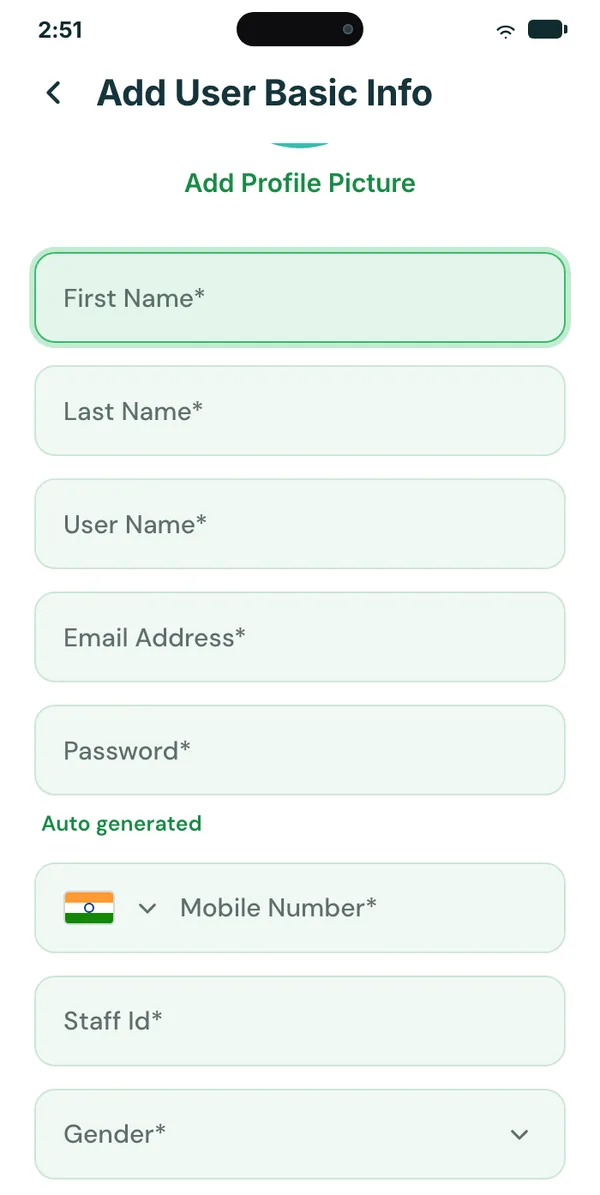
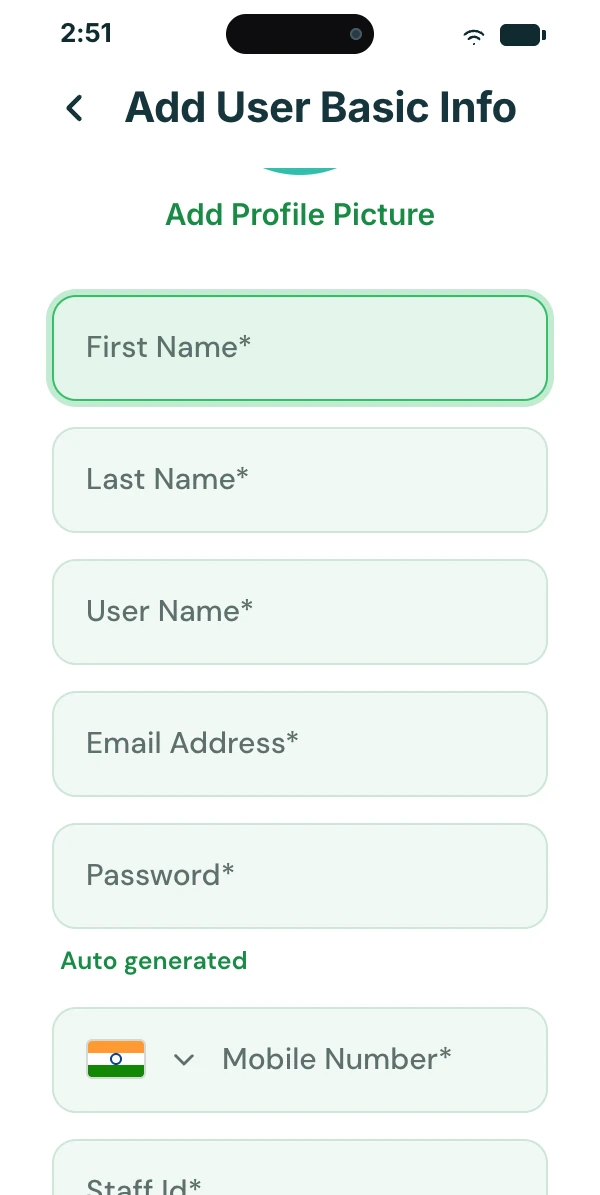
User Management: the Add User form re-rendered with wider margins and made scrollable under a fixed top bar, opening at each highlighted field

diff --git a/antz-onboard/app.js b/antz-onboard/app.js
@@ -358,6 +358,12 @@
     const z = shot.zoom || shot.device === 'web' ? ' zoomable' : '';
     if (shot.device === 'web') return `<div class="device device-web${z}"><div class="screen"><div class="bar"><i></i><i></i><i></i></div>${img}${k}</div>${l}</div>`;
     if (shot.device === 'tablet') return `<div class="device device-tablet${z}"><div class="screen">${img}${k}</div>${l}</div>`;
+    /* A scrolling screen (shot.scroll): the app's top bar stays put while the rest scrolls beneath it, as in the app.
+       data-full is the whole screen in one image, for the lens */
+    if (shot.scroll) {
+      const sc = shot.scroll;
+      return `<div class="device device-phone${z}" data-full="${esc(sc.full)}"><div class="screen screen-scroll"><img class="screen-head" src="${esc(sc.head)}" alt=""><div class="screen-body" tabindex="0" data-at="${sc.at}" aria-label="${esc(shot.alt)}"><img src="${esc(sc.body)}" alt="${esc(shot.alt)}"></div><span class="screen-cue" aria-hidden="true">${esc(t('screen.scroll'))}</span>${k}</div>${l}</div>`;
+    }
     /* Every phone screen gets the same green frame, drawn in CSS (the frames once baked into some captures are cropped off) */
     return `<div class="device device-phone${z}"><div class="screen">${img}${k}</div>${l}</div>`;
   };
@@ -538,7 +544,8 @@
       id: `guide-${id}-${key}`, track, title, web: /-web$/.test(id), flow,
       features: shots.map((s) => ({ title: s.title, desc: s.desc, icon: s.icon || ic, shot: srcOf(s) })),
       /* A screen is a phone unless it says otherwise (device: 'tablet' or 'web' for web modules) */
-      shots: shots.map((s) => ({ src: srcOf(s), alt: s.title, device: s.device || 'phone' }))
+      shots: shots.map((s) => ({ src: srcOf(s), alt: s.title, device: s.device || 'phone',
+        scroll: s.scroll && { head: srcOf({ src: s.scroll.head }), body: srcOf({ src: s.scroll.body }), full: srcOf({ src: s.scroll.full }), at: s.scroll.at } }))
     }) - 1;
 
     /* At a glance: the module pages' feature cards, each opening its screen */
@@ -1850,6 +1857,25 @@
   const CHEV_R = '<svg width="24" height="24" viewBox="0 -960 960 960" fill="currentColor"><path d="M517.85-480 354.92-642.92q-8.3-8.31-8.5-20.89-.19-12.57 8.5-21.27 8.7-8.69 21.08-8.69 12.38 0 21.08 8.69l179.77 179.77q5.61 5.62 7.92 11.85 2.31 6.23 2.31 13.46t-2.31 13.46q-2.31 6.23-7.92 11.85L397.08-274.92q-8.31 8.3-20.89 8.5-12.57.19-21.27-8.5-8.69-8.7-8.69-21.08 0-12.38 8.69-21.08L517.85-480Z"/></svg>';
   /* The LSET Foundation banner's leaf flourish (its components/icons/Leaves), under the banner text */
   const LEAVES_SVG = '<svg class="hero-leaf" width="114" height="60" viewBox="0 0 114 60" fill="none" aria-hidden="true" focusable="false"><path d="M2.87042 41.151C9.84427 42.2953 16.9777 42.0151 23.8403 40.3272C21.2324 39.0356 18.7205 37.5585 16.3241 35.9073C15.5719 35.3815 14.8724 32.6546 15.63 33.1841C19.0249 35.6013 22.6176 37.7278 26.3701 39.5409C28.3959 38.9382 31.2637 38.1164 33.3629 37.3151C34.8384 36.7518 36.2972 36.1518 37.7394 35.5152C39.7426 30.0413 46.0782 13.7805 48.733 19.3843C50.8472 23.8472 45.0164 30.2708 40.8713 34.0752C43.7887 32.6746 46.6426 31.1434 49.4414 29.5135L49.4269 29.5086L49.4898 29.4851C49.7488 29.3342 50.0073 29.1826 50.2654 29.0302C52.1283 23.9011 58.6661 6.86762 61.374 12.5837C63.3668 16.7903 58.3008 22.7393 54.2411 26.5946C57.0266 24.8318 59.7607 22.9874 62.4515 21.0943C63.0903 20.6449 63.727 20.1926 64.3617 19.7374C64.5324 15.8793 65.3768 3.48095 69.1102 6.60833C72.155 9.15894 68.69 15.0031 66.2686 18.359C68.4118 16.7977 70.5362 15.2106 72.6525 13.6127C73.6032 12.895 74.4153 12.0103 75.0492 11.0019C78.3819 5.69948 85.7422 -4.73149 88.0801 2.43099C90.306 9.25017 81.5286 12.1511 76.569 13.227C75.5994 13.4393 74.6877 13.86 73.8969 14.4599C71.5872 16.2052 69.2672 17.9387 66.9259 19.642C71.0431 18.2774 77.8777 16.6402 80.1336 19.8468C82.9239 23.813 69.2448 21.7951 64.9412 21.075C61.6655 23.4188 58.3402 25.691 54.9373 27.8442C60.1099 26.5855 67.2794 25.7311 68.836 30.0874C70.8894 35.8341 56.4643 31.7461 51.2545 30.1055C51.0959 30.1998 50.9386 30.2964 50.7795 30.3902C47.8626 32.1102 44.8733 33.7266 41.8171 35.2033C47.014 33.8879 54.5605 32.8524 56.1623 37.3356C58.3436 43.4403 41.9297 38.4469 37.721 37.0786C34.896 38.2982 31.1569 39.5991 28.228 40.5311C34.6511 43.3832 41.4349 45.3413 48.3899 46.3506C49.954 46.5701 51.5212 46.7493 53.0915 46.8884C57.4892 43.0626 70.8905 31.884 70.5086 38.073C70.2044 43.0021 61.9963 45.8107 56.5293 47.14C59.7603 47.3227 62.9989 47.3602 66.2368 47.2848L66.2265 47.2734L66.2929 47.2832C66.5925 47.2762 66.8922 47.2683 67.1918 47.2595C71.3001 43.668 85.2515 31.9104 84.862 38.2235C84.5754 42.8694 77.2661 45.6318 71.8493 47.0469C75.1398 46.8487 78.4246 46.5541 81.6951 46.196C82.4715 46.111 83.2475 46.0225 84.0231 45.9304C86.036 42.6347 92.7633 32.186 94.522 36.7276C95.9563 40.4315 90.0996 43.8754 86.3586 45.6445C88.9893 45.3124 91.6168 44.9548 94.2409 44.5716C95.42 44.4024 96.5584 44.02 97.6005 43.4431C103.08 40.4097 114.562 34.8308 113.15 42.2317C111.806 49.2778 102.719 47.5788 97.8565 46.1255C96.905 45.8432 95.9035 45.7711 94.9214 45.9145C92.0559 46.3272 89.187 46.7175 86.3145 47.0854C90.5788 47.8789 97.3542 49.7463 97.7807 53.6437C98.3084 58.4642 87.3052 50.0907 83.8845 47.3816C79.8841 47.8519 75.8751 48.2355 71.8553 48.4774C76.9926 49.8735 83.6832 52.588 82.9423 57.1543C81.9648 63.178 71.308 52.6316 67.5385 48.6788C67.354 48.6848 67.1697 48.6934 66.9851 48.6987C63.6002 48.796 60.2019 48.7677 56.8126 48.5847C61.9985 49.9428 69.1066 52.6808 68.344 57.3801C67.3056 63.779 55.3447 51.4793 52.3201 48.2484C46.0281 47.6768 39.8193 46.4069 33.8081 44.4623C31.0847 43.5563 28.4158 42.4941 25.8146 41.2809C23.7922 41.8341 21.7493 42.3166 19.6824 42.7041C13.2712 44.0086 6.70964 44.4139 0.186651 43.9084C-0.725917 43.8113 1.95691 41.0095 2.87042 41.151Z" fill="currentColor"/></svg>';
+  /* A scrolling screen opens scrolled to its feature (data-at, in image pixels); the cue fades once the reader scrolls */
+  function bindScrollScreen(root) {
+    root.querySelectorAll('.screen-body').forEach((body) => {
+      const img = body.querySelector('img');
+      const screen = body.parentElement, cue = screen.querySelector('.screen-cue');
+      let placed = false;
+      const atEnd = () => body.scrollTop + body.clientHeight >= body.scrollHeight - 4;
+      const place = () => {
+        body.scrollTop = (+body.dataset.at || 0) * (img.clientWidth / (img.naturalWidth || 1));
+        screen.classList.toggle('at-end', atEnd());
+        requestAnimationFrame(() => { placed = true; });
+      };
+      if (img.complete && img.naturalWidth) place(); else img.addEventListener('load', place, { once: true });
+      body.addEventListener('scroll', () => {
+        screen.classList.toggle('at-end', atEnd());
+        if (placed && cue) cue.classList.add('gone');
+      }, { passive: true });
+    });
+  }
   let closeFeatureWindow = null;
   /* chain: { sets, at } on guide pages, where each card is its own set: stepping past a set's last (or first)
      screen carries on into the next (or previous) card's screens, in the same window */
@@ -1919,6 +1945,7 @@
       /* The wash starts a little below the text, however long this feature's description is */
       setAnimal(w.querySelector('.fwin-info'), animals[i % animals.length], () => text.offsetTop + text.offsetHeight);
       dev.innerHTML = shot ? deviceHTML({ ...shot, lock: !!f.lock }) : `<p class="fwin-empty">${esc(t('win.soon'))}</p>`;
+      bindScrollScreen(dev);
       /* The screen slides in from the side being moved to; the text fades up */
       [dev, text].forEach((el) => { el.classList.remove('in-l', 'in-r', 'in-up'); void el.offsetWidth; });
       dev.classList.add(dir > 0 ? 'in-r' : dir < 0 ? 'in-l' : 'in-up');
@@ -2228,7 +2255,7 @@
     const sheetLens = g.querySelector('.g-stage > .lens');
     if (sheetLens) {
       sheetLens.addEventListener('pointerdown', (e) => e.stopPropagation());
-      sheetLens.addEventListener('click', () => { const sl = slides[idx]; if (sl.src) openLens(sl.src, sl.alt, sl.title || m.title, sheetLens); });
+      sheetLens.addEventListener('click', () => { const sl = slides[idx]; if (sl.src) openLens(sl.full || sl.src, sl.alt, sl.title || m.title, sheetLens); });
     }
     go(start);
     if (sheet) {
@@ -2254,11 +2281,13 @@
     if (!b) return;
     e.stopPropagation(); e.preventDefault();
     /* An outside lens opens the screen its card or stage shows now (a tour swaps it as tiles are pointed at) */
-    const img = b.parentElement.querySelector('img');
+    const img = b.parentElement.querySelector('.screen-body img') || b.parentElement.querySelector('img');
+    const full = b.parentElement.dataset.full;
     const head = b.closest('.fwin-card, section, .mpanel, .mfeat-row');
     const title = b.dataset.title || (b.closest('.mfeat-row') || {}).querySelector?.('.t b')?.textContent
       || head?.querySelector('.fwin-title, h1, h2, .section-title, .mpanel-title')?.textContent || '';
-    if (img) openLens(img.currentSrc || img.src, img.alt, title.trim(), b);
+    if (full) openLens(full, img ? img.alt : '', title.trim(), b);
+    else if (img) openLens(img.currentSrc || img.src, img.alt, title.trim(), b);
   }, true);
 
   /* Phones: a feature's screen and details open in the full-screen sheet */
@@ -2268,7 +2297,7 @@
     const slidesOf = (x, group) => x.features.map((f, i) => {
       const src = f.shot || (x.shots[i] && x.shots[i].src) || (x.shots[0] && x.shots[0].src);
       const shot = src ? shotFor(x, src) : null;
-      return { src: src || '', alt: (shot && shot.alt) || f.title, title: tidyTitle(f.title), desc: tidy(f.desc), icon: f.icon, device: shot && shot.device,
+      return { src: src || '', full: shot && shot.scroll && shot.scroll.full, alt: (shot && shot.alt) || f.title, title: tidyTitle(f.title), desc: tidy(f.desc), icon: f.icon, device: shot && shot.device,
         lock: !!f.lock, group, groupTitle: x.title, local: i };
     });
     if (!chain) { openGallery(m, slidesOf(m), start, returnFocusTo, { sheet: true, origin, step, close }); return; }

diff --git a/antz-onboard/guide.js b/antz-onboard/guide.js
@@ -387,7 +387,7 @@ window.ANTZ_GUIDES = {
            The deck lists two different sets of example roles (overview and roles slide), so the card names only roles common to both and the app. */
         cards: [
           { id: 'profile', title: 'Profile creation & management', icon: 'users', desc: 'Store user details: name, contact, staff ID, date of birth and blood group.',
-            shots: [{ src: 'add-identity', title: 'Add User Basic Info', desc: 'The form that captures a new user\'s identity, contact and personal details.' }] },
+            shots: [{ src: 'add-identity', scroll: { head: 'form-head', body: 'form-identity', full: 'form-identity-full', at: 238 }, title: 'Add User Basic Info', desc: 'The form that captures a new user\'s identity, contact and personal details.' }] },
           { id: 'roles', title: 'Roles & permissions', icon: 'access', desc: 'Assign roles, such as Curator or Vet, and set their access rights per module.',
             shots: [{ src: 'role-permissions', title: 'Role permissions', desc: 'Choose a role and see the rights it holds in each module.' }] },
           { id: 'access', title: 'Access control', icon: 'shield', desc: 'Restrict by site or section, activate or deactivate accounts, with auto-timeout.',
@@ -410,17 +410,18 @@ window.ANTZ_GUIDES = {
         label: 'Part 02 · Add a user',
         title: 'Onboarding a user',
         lede: 'Adding a teammate starts with one form. Capture who they are, and the account is created with a secure password out of the box.',
-        /* The deck draws this form in HTML rather than as a capture; these screens are renders of that form */
+        /* The deck draws this form in HTML rather than as a capture; these screens are renders of that form.
+           scroll: in the screen window the form scrolls under its fixed top bar (head), opening at `at` (image px) */
         actions: {
           title: 'The Add User form', numbered: true,
           desc: 'Six parts of the Add User Basic Info form, each highlighted on the screen.',
           shots: [
-            { src: 'add-photo', title: 'Profile picture', desc: 'Add a photo so the user is easy to recognise in lists.' },
-            { src: 'add-identity', title: 'Identity', desc: 'Full name, email and address.' },
-            { src: 'add-password', title: 'Auto-generated password', desc: 'A secure password is created automatically when the user is added.' },
-            { src: 'add-mobile', title: 'Country code & mobile', desc: 'The international dialling code with the contact number.' },
-            { src: 'add-staff-id', title: 'Staff ID', desc: 'Tie the account to the facility\'s own staff number.' },
-            { src: 'add-personal', title: 'Personal', desc: 'Date of birth, gender, marital status, age and blood group.' }
+            { src: 'add-photo', scroll: { head: 'form-head', body: 'form-photo', full: 'form-photo-full', at: 0 }, title: 'Profile picture', desc: 'Add a photo so the user is easy to recognise in lists.' },
+            { src: 'add-identity', scroll: { head: 'form-head', body: 'form-identity', full: 'form-identity-full', at: 238 }, title: 'Identity', desc: 'Full name, email and address.' },
+            { src: 'add-password', scroll: { head: 'form-head', body: 'form-password', full: 'form-password-full', at: 766 }, title: 'Auto-generated password', desc: 'A secure password is created automatically when the user is added.' },
+            { src: 'add-mobile', scroll: { head: 'form-head', body: 'form-mobile', full: 'form-mobile-full', at: 948 }, title: 'Country code & mobile', desc: 'The international dialling code with the contact number.' },
+            { src: 'add-staff-id', scroll: { head: 'form-head', body: 'form-staff-id', full: 'form-staff-id-full', at: 1080 }, title: 'Staff ID', desc: 'Tie the account to the facility\'s own staff number.' },
+            { src: 'add-personal', scroll: { head: 'form-head', body: 'form-personal', full: 'form-personal-full', at: 1212 }, title: 'Personal', desc: 'Date of birth, gender, marital status, age and blood group.' }
           ]
         }
       },

diff --git a/antz-onboard/styles.css b/antz-onboard/styles.css
@@ -599,6 +599,25 @@ button { font: inherit; color: inherit; }
 .device-web .bar i { width: 10px; height: 10px; border-radius: 50%; background: var(--outline); }
 .device-web img { height: auto; }
 .screen img, .device-framed img, .device-web img { animation: fade .24s var(--ease); }
+/* A scrolling screen: the top bar fixed, the rest scrolling beneath it (no visible scrollbar), a soft fade at
+   the bottom while there is more below, and a small "Scroll" cue until the reader scrolls */
+.screen.screen-scroll { display: flex; flex-direction: column; background: #fff; }
+.screen-scroll .screen-head { flex: none; width: 100%; height: auto; position: relative; z-index: 1; }
+.screen-scroll .screen-body { flex: 1; min-height: 0; overflow-y: auto; overscroll-behavior: contain; scrollbar-width: none; outline: none; }
+.screen-scroll .screen-body::-webkit-scrollbar { display: none; }
+.screen-scroll .screen-body img { width: 100%; height: auto; }
+.screen-scroll::after { content: ""; position: absolute; left: 0; right: 0; bottom: 0; height: 56px; pointer-events: none; background: linear-gradient(rgba(255,255,255,0), #fff 85%); transition: opacity .3s; }
+.screen-scroll.at-end::after { opacity: 0; }
+.screen-cue {
+  position: absolute; z-index: 2; left: 50%; bottom: 14px; transform: translateX(-50%); display: inline-flex; align-items: center; gap: 6px;
+  padding: 5px 12px 5px 10px; border-radius: 999px; font-size: 11.5px; font-weight: 600; letter-spacing: .02em; pointer-events: none;
+  color: #fff; background: rgba(16,42,48,.72); backdrop-filter: blur(6px); transition: opacity .35s, transform .35s;
+}
+.screen-cue::before { content: ""; width: 7px; height: 7px; border-right: 2px solid currentColor; border-bottom: 2px solid currentColor; transform: translateY(-2px) rotate(45deg); animation: cueNudge 1.6s ease-in-out infinite; }
+.screen-cue.gone, .screen-scroll.at-end .screen-cue { opacity: 0; transform: translate(-50%, 6px); }
+@keyframes cueNudge { 50% { transform: translateY(1px) rotate(45deg); } }
+.screen-scroll .screen-body:focus-visible { box-shadow: inset 0 0 0 3px var(--green); }
+@media (prefers-reduced-motion: reduce) { .screen-cue::before { animation: none; } }
 @keyframes fade { from { opacity: 0; transform: translateY(4px); } to { opacity: 1; transform: none; } }
 @media (max-width: 560px) { .device-phone, .device-framed { width: 232px; } }
 

diff --git a/antz-onboard/i18n.js b/antz-onboard/i18n.js
@@ -160,6 +160,7 @@
     'gal.screen': 'Screen {i}',
     'gal.hint': 'Pinch or double-tap to zoom · Swipe to browse',
     'lens.open': 'Zoom into this screen',
+    'screen.scroll': 'Scroll',
     'lens.hint': 'Drag to scroll · Pinch or double-tap to zoom',
     'lens.hintMouse': 'Drag or scroll to move around · Double-click, pinch or use + and − to zoom',
     'lens.in': 'Zoom in',
